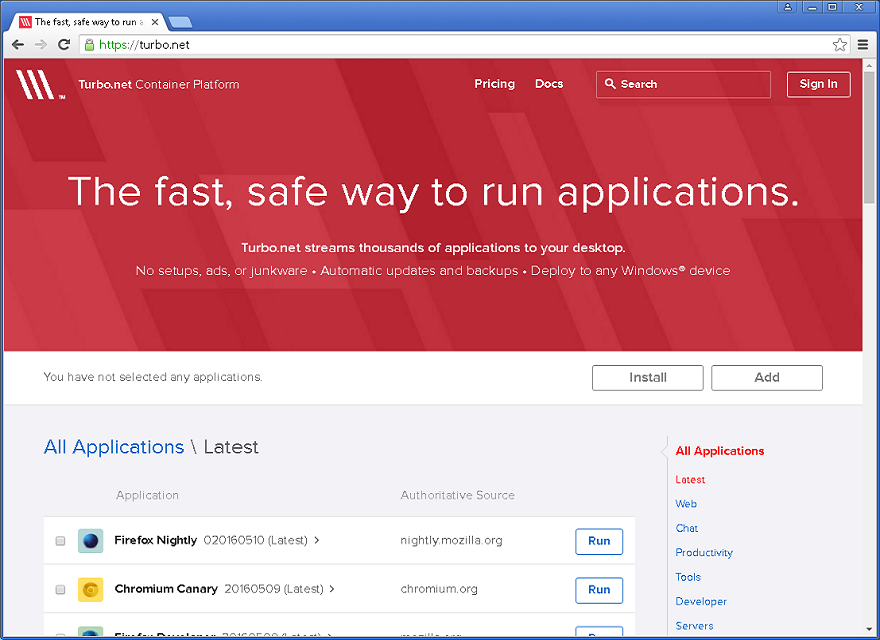
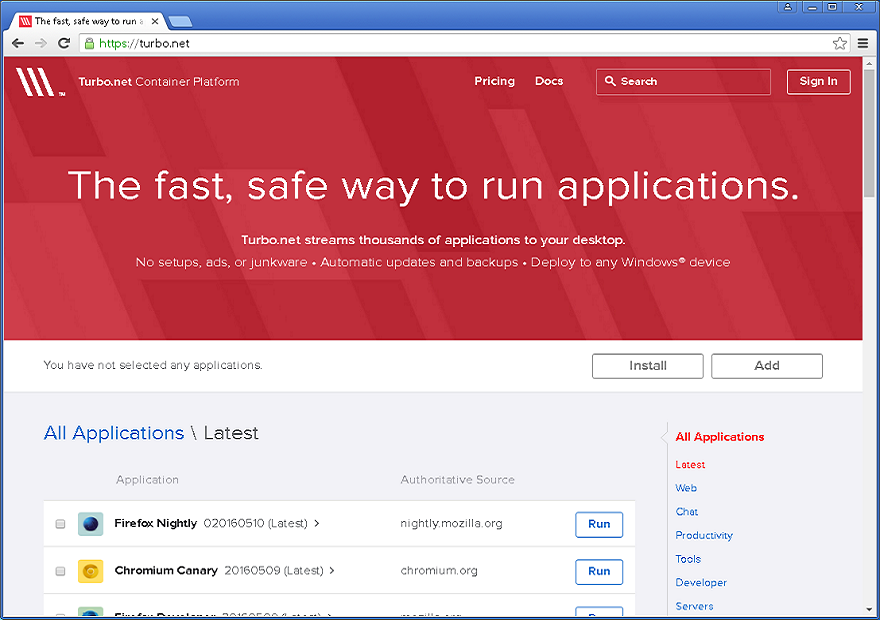
resize first image

diff --git a/tour/getting-started/begin-scripting/readme.md b/tour/getting-started/begin-scripting/readme.md
@@ -1,1 +1,1 @@
-Now that you are familiar with the Turbo.net, let's take a look at scripting using the Turbo.net command line utility.
+Now that you are familiar with Turbo.net, let's take a look at scripting using the Turbo.net command line utility.
